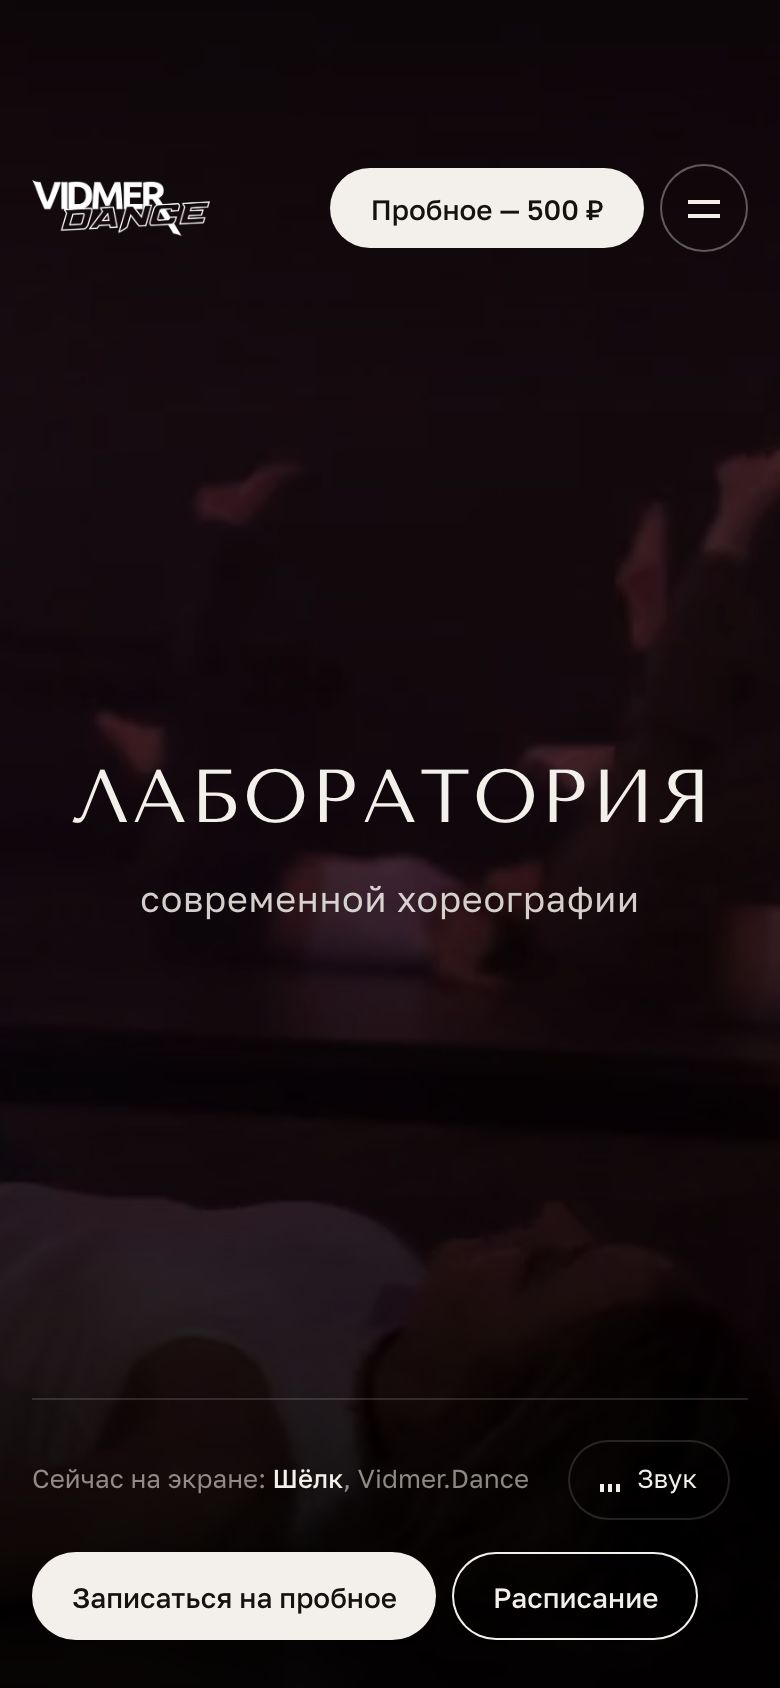
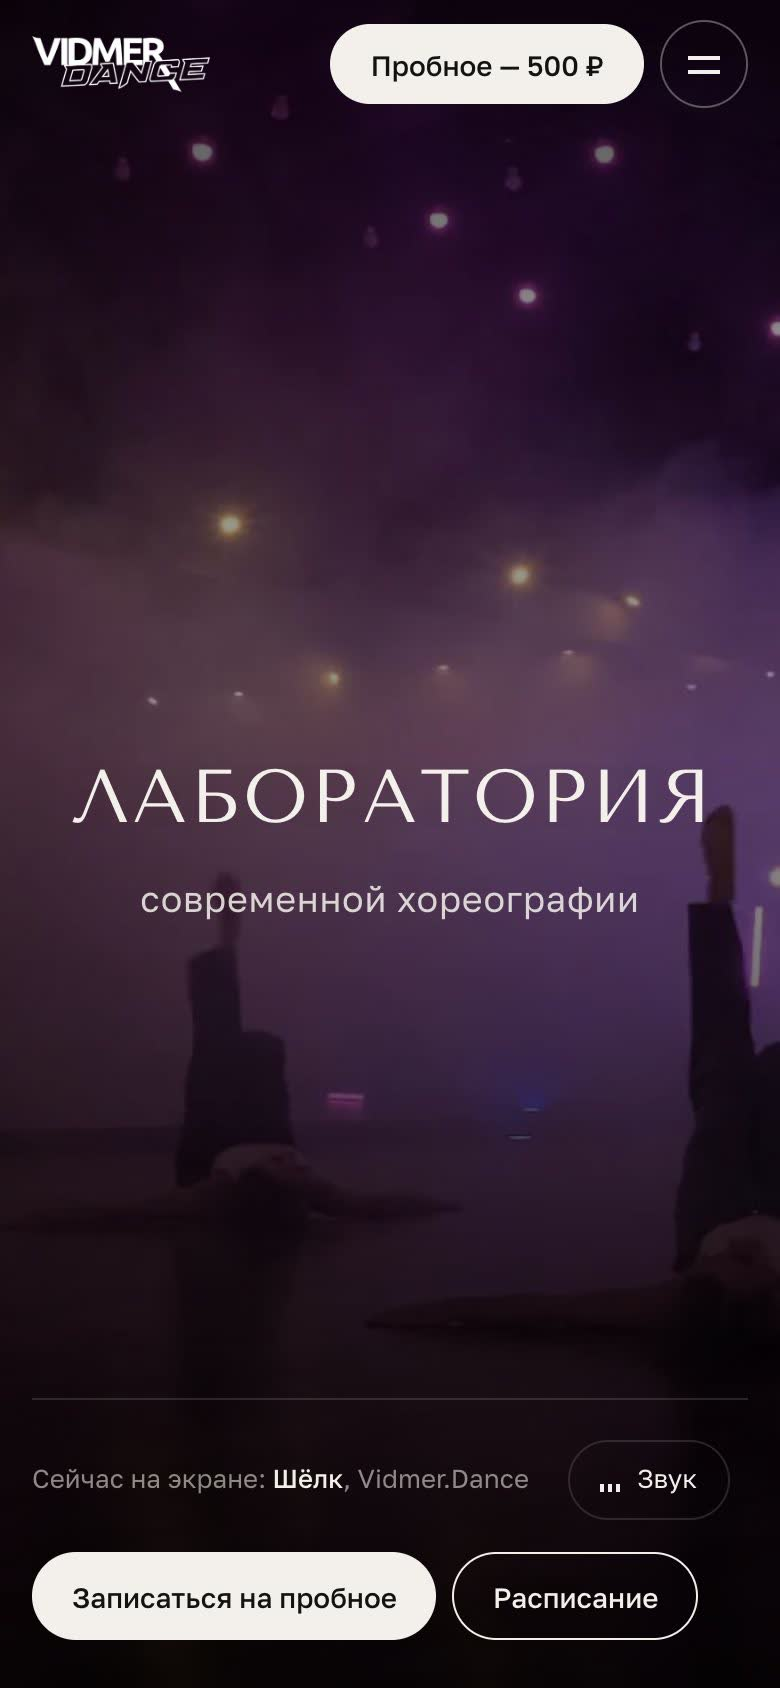
Кейс Vidmer.dance: ряд телефонов концепта — четыре экрана без «Было», снятые заново
Первый экран с кадром из «Шёлка», меню, расписание и запись; экраны целиком 390×844, рамка тоньше.

diff --git a/vidmer.html b/vidmer.html
@@ -121,8 +121,8 @@ figcaption{margin-top:12px;color:var(--sub)}
 
 /* phones */
 .phones{display:grid;grid-template-columns:repeat(4,1fr);gap:clamp(12px,2vw,32px);margin-top:56px}
-.phone{border-radius:28px;padding:8px;background:#1d1d1d;box-shadow:0 0 0 1px var(--line),0 32px 64px -32px rgba(0,0,0,.9)}
-.phone img{border-radius:20px;aspect-ratio:390/760;object-fit:cover;object-position:top;width:100%}
+.phone{border-radius:36px;padding:6px;background:#1d1d1d;box-shadow:0 0 0 1px var(--line),0 32px 64px -32px rgba(0,0,0,.9)}
+.phone img{border-radius:30px;aspect-ratio:390/844;object-fit:cover;object-position:top;width:100%}
 .light .phone,.concept .phone{background:#111}
 .phones figcaption{text-align:center}
 
@@ -179,8 +179,8 @@ figcaption{margin-top:12px;color:var(--sub)}
   .grid2,.path,.result{grid-template-columns:1fr}
   .step:not(:last-child)::after{right:auto;left:32px;top:auto;bottom:-14px;content:"↓"}
   .phones{grid-template-columns:1fr 1fr;gap:16px}
-  .phone{border-radius:20px;padding:6px}
-  .phone img{border-radius:14px}
+  .phone{border-radius:24px;padding:4px}
+  .phone img{border-radius:20px}
   .changes{gap:64px}
   .quotes span:nth-child(n){margin-left:0}
 }
@@ -365,10 +365,10 @@ figcaption{margin-top:12px;color:var(--sub)}
       </div>
     </div>
     <div class="phones">
-      <figure><div class="phone"><img src="assets/vidmer/concept-m-hero.jpg" width="780" height="1688" loading="lazy" alt="Концепт на телефоне: первый экран"></div><figcaption class="cap">Первый экран</figcaption></figure>
-      <figure><div class="phone"><img src="assets/vidmer/concept-m-schedule.jpg" width="780" height="1688" loading="lazy" alt="Концепт на телефоне: расписание"></div><figcaption class="cap">Расписание</figcaption></figure>
-      <figure><div class="phone"><img src="assets/vidmer/concept-m-signup.jpg" width="780" height="1688" loading="lazy" alt="Концепт на телефоне: форма записи"></div><figcaption class="cap">Запись</figcaption></figure>
-      <figure><div class="phone"><img src="assets/vidmer/real-m-hero.jpg" width="780" height="1688" loading="lazy" alt="Сайт студии на телефоне для сравнения: первый экран"></div><figcaption class="cap">Было: сайт студии</figcaption></figure>
+      <figure><div class="phone"><img src="assets/vidmer/concept-m-hero.jpg" width="780" height="1688" loading="lazy" alt="Концепт на телефоне: первый экран с видео постановки «Шёлк»"></div><figcaption class="cap">Первый экран</figcaption></figure>
+      <figure><div class="phone"><img src="assets/vidmer/concept-m-menu.jpg" width="780" height="1688" loading="lazy" alt="Концепт на телефоне: меню на весь экран"></div><figcaption class="cap">Меню</figcaption></figure>
+      <figure><div class="phone"><img src="assets/vidmer/concept-m-schedule.jpg" width="780" height="1688" loading="lazy" alt="Концепт на телефоне: расписание карточками по дням"></div><figcaption class="cap">Расписание</figcaption></figure>
+      <figure><div class="phone"><img src="assets/vidmer/concept-m-signup.jpg" width="780" height="1688" loading="lazy" alt="Концепт на телефоне: форма записи и контакты"></div><figcaption class="cap">Запись</figcaption></figure>
     </div>
   </div>
 </section>
